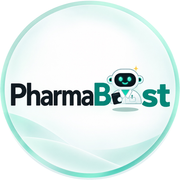
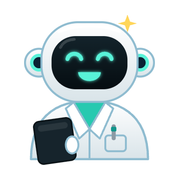
Site : sans le titre « PharmaBoost en trois étapes » ni le bouton vidéo ; nouvel onglet « Vidéo d'explication » avec le film « PharmaBoost en bref » (lancé au clic, sans boucle) ; icône d'onglet = le robot en blouse, tablette en main (fondateur, 30 oct. 2026)
Claude-Session: https://claude.ai/code/session_01Wt6amvxLj1ENGgZYMz6bzm

diff --git a/src/app/(public)/decouvrir/page.tsx b/src/app/(public)/decouvrir/page.tsx
@@ -2,7 +2,6 @@ import type { Metadata } from "next";
 import Link from "next/link";
 import { ArrowRight, Check } from "lucide-react";
 import { fr, Kicker, SectionHead } from "./_components/site-shell";
-import { VideoButton } from "./_components/video-dialog";
 import { AutoVideo } from "./_components/auto-video";
 import { AppPhoneVisual } from "./_components/app-visual";
 import { loadLiveProof } from "@/server/services/site-leads";
@@ -145,15 +144,10 @@ export default async function SitePage() {
       {/* ---- 2. Qu'est-ce que PharmaBoost ? ---------------------------- */}
       <section id="banniere" className="scroll-mt-20 border-t border-border-subtle bg-surface-card">
         <div className="mx-auto max-w-6xl px-5 py-20 md:py-28">
-          <Reveal>
-            <SectionHead title="PharmaBoost en trois étapes." center />
-          </Reveal>
-          <div className="mt-8 flex justify-center">
-            <VideoButton film="enBref" label="Voir PharmaBoost en vidéo" />
-          </div>
+          {/* Sans titre ni bouton vidéo (fondateur, 30 oct. 2026) : le film est dans l'onglet « Vidéo d'explication ». */}
           {/* La bannière d'aujourd'hui, deux conseils, la routine, le challenge et la date courte : petite, puis ouverte, sur un
               fond noir d'écran Windows (fondateur, 28 oct. 2026). */}
-          <div className="mx-auto mt-12 max-w-[1100px]">
+          <div className="mx-auto max-w-[1100px]">
             <BannerSteps />
           </div>
           <p className="mt-8 text-center text-[13px] text-text-tertiary">La bannière PharmaBoost, reproduite pour le site : au scan, puis ouverte. Médicaments, produits et prix : exemples.</p>

diff --git a/src/app/(public)/decouvrir/__tests__/site-contenu.test.ts b/src/app/(public)/decouvrir/__tests__/site-contenu.test.ts
@@ -98,14 +98,16 @@ describe("l'en-tête mène d'abord à la bannière du comptoir", () => {
     // L'onglet « Affiliation » (18 oct. 2026) ferme le menu principal.
     // « Stock et marge » n'est plus dans le menu (fondateur, 20 oct. 2026).
     // « Appli » et « Partenaires » rejoignent le menu (fondateur, 22 oct. 2026).
-    expect(links).toHaveLength(6);
-    expect(links[3]).toEqual(["/decouvrir/application", "Appli"]);
-    expect(links[4]).toEqual(["/decouvrir/partenaires", "Partenaires"]);
-    expect(links[5]).toEqual(["/decouvrir/affiliation", "Affiliation"]);
+    // « Vidéo d'explication » rejoint le menu après « Pourquoi » (fondateur, 30 oct. 2026).
+    expect(links).toHaveLength(7);
+    expect(links[2]).toEqual(["/decouvrir/video-explication", "Vidéo d&#x27;explication"]);
+    expect(links[4]).toEqual(["/decouvrir/application", "Appli"]);
+    expect(links[5]).toEqual(["/decouvrir/partenaires", "Partenaires"]);
+    expect(links[6]).toEqual(["/decouvrir/affiliation", "Affiliation"]);
     expect(nav).not.toContain("#stock-marge");
     // « Suivi pharmaceutique » n'est plus dans le menu, « Tarif » s'appelle « Offre » (fondateur, 21 oct. 2026).
     expect(nav).not.toContain("#suivi");
-    expect(links[2]).toEqual(["/decouvrir#tarif", "Offre"]);
+    expect(links[3]).toEqual(["/decouvrir#tarif", "Offre"]);
     // La rubrique « Comment ça marche » a été retirée de la page (demande du fondateur, 11 oct. 2026) : plus de lien vers elle.
     expect(nav).not.toContain("#fonctionnement");
   });

diff --git a/src/app/(public)/decouvrir/video-explication/page.tsx b/src/app/(public)/decouvrir/video-explication/page.tsx
@@ -1,0 +1,25 @@
+import type { Metadata } from "next";
+import Link from "next/link";
+import { ArrowRight } from "lucide-react";
+import { AutoVideo } from "../_components/auto-video";
+import { SectionHead } from "../_components/site-shell";
+
+export const metadata: Metadata = { title: "Vidéo d'explication", description: "PharmaBoost en bref : la bannière au comptoir, du scan au conseil." };
+
+/**
+ * L'onglet « Vidéo d'explication » (fondateur, 30 oct. 2026) : le film « PharmaBoost en bref », sorti de l'accueil. Il se lance
+ * au clic, avec le son, et s'arrête à la fin (« Revoir »).
+ */
+export default function VideoExplicationPage() {
+  return (
+    <div className="mx-auto max-w-6xl px-5 py-16 md:py-24">
+      <SectionHead as="h1" center kicker="Vidéo d'explication" title="PharmaBoost en bref." />
+      <AutoVideo src="/video/pharmaboost-en-bref.mp4" poster="/video/pharmaboost-en-bref.jpg" />
+      <div className="mt-10 flex justify-center">
+        <Link href="/decouvrir/demo" className="inline-flex h-12 items-center gap-2 rounded-full bg-brand-600 px-6 text-[15px] font-semibold text-white hover:bg-brand-700">
+          Réserver une démo <ArrowRight className="size-4" aria-hidden="true" />
+        </Link>
+      </div>
+    </div>
+  );
+}

diff --git a/src/app/(public)/decouvrir/_components/site-shell.tsx b/src/app/(public)/decouvrir/_components/site-shell.tsx
@@ -10,6 +10,8 @@ const NAV = [
   // « Suivi pharmaceutique » retiré du menu (fondateur, 21 oct. 2026) : la section reste sur l'accueil.
   // « Stock et marge » retiré du menu (fondateur, 20 oct. 2026) : la section reste sur l'accueil.
   { href: "/decouvrir/pourquoi", label: "Pourquoi" },
+  // Le film « PharmaBoost en bref », sorti de l'accueil dans son propre onglet (fondateur, 30 oct. 2026).
+  { href: "/decouvrir/video-explication", label: "Vidéo d'explication" },
   { href: "/decouvrir#tarif", label: "Offre" },
   // L'appli des patients et les partenaires (laboratoires, marques), dans le menu principal (fondateur, 22 oct. 2026).
   { href: "/decouvrir/application", label: "Appli" },
@@ -110,6 +112,7 @@ export function SiteFooter({ contactEmail }: { contactEmail: string }) {
         <ul className="space-y-2 text-[13.5px]">
           {[
             { href: "/decouvrir/pourquoi", label: "Pourquoi PharmaBoost" },
+            { href: "/decouvrir/video-explication", label: "Vidéo d'explication" },
             { href: "/decouvrir/application", label: "L'appli PharmaBoost" },
             { href: "/decouvrir/partenaires", label: "Partenaires" },
             { href: "/decouvrir/affiliation", label: "Affiliation" },

diff --git a/src/app/(public)/robot-apercu/icone/page.tsx b/src/app/(public)/robot-apercu/icone/page.tsx
@@ -1,0 +1,23 @@
+import type { Metadata } from "next";
+import { notFound } from "next/navigation";
+import { Robot } from "@/components/robot";
+
+export const metadata: Metadata = { title: "Icône", robots: { index: false, follow: false } };
+
+/**
+ * L'icône d'onglet (fondateur, 30 oct. 2026 : « le favicon doit être ce logo-là, pas l'ancien avec le casque ») : le robot en
+ * blouse, tablette en main, seul et en grand, photographié en 512 px (`[data-icone]`) pour l’icône d’onglet et celle de l’écran d’accueil.
+ */
+export default function IconePage() {
+  if (process.env.NODE_ENV === "production") notFound();
+  return (
+    <main className="flex min-h-dvh items-center justify-center gap-10 bg-[#EEF2F6] p-6">
+      <div data-icone="" className="flex size-[512px] items-center justify-center overflow-hidden">
+        <Robot size={330} mood="happy" />
+      </div>
+      <div data-icone-fond="" className="flex size-[512px] items-center justify-center overflow-hidden bg-white">
+        <Robot size={300} mood="happy" />
+      </div>
+    </main>
+  );
+}
